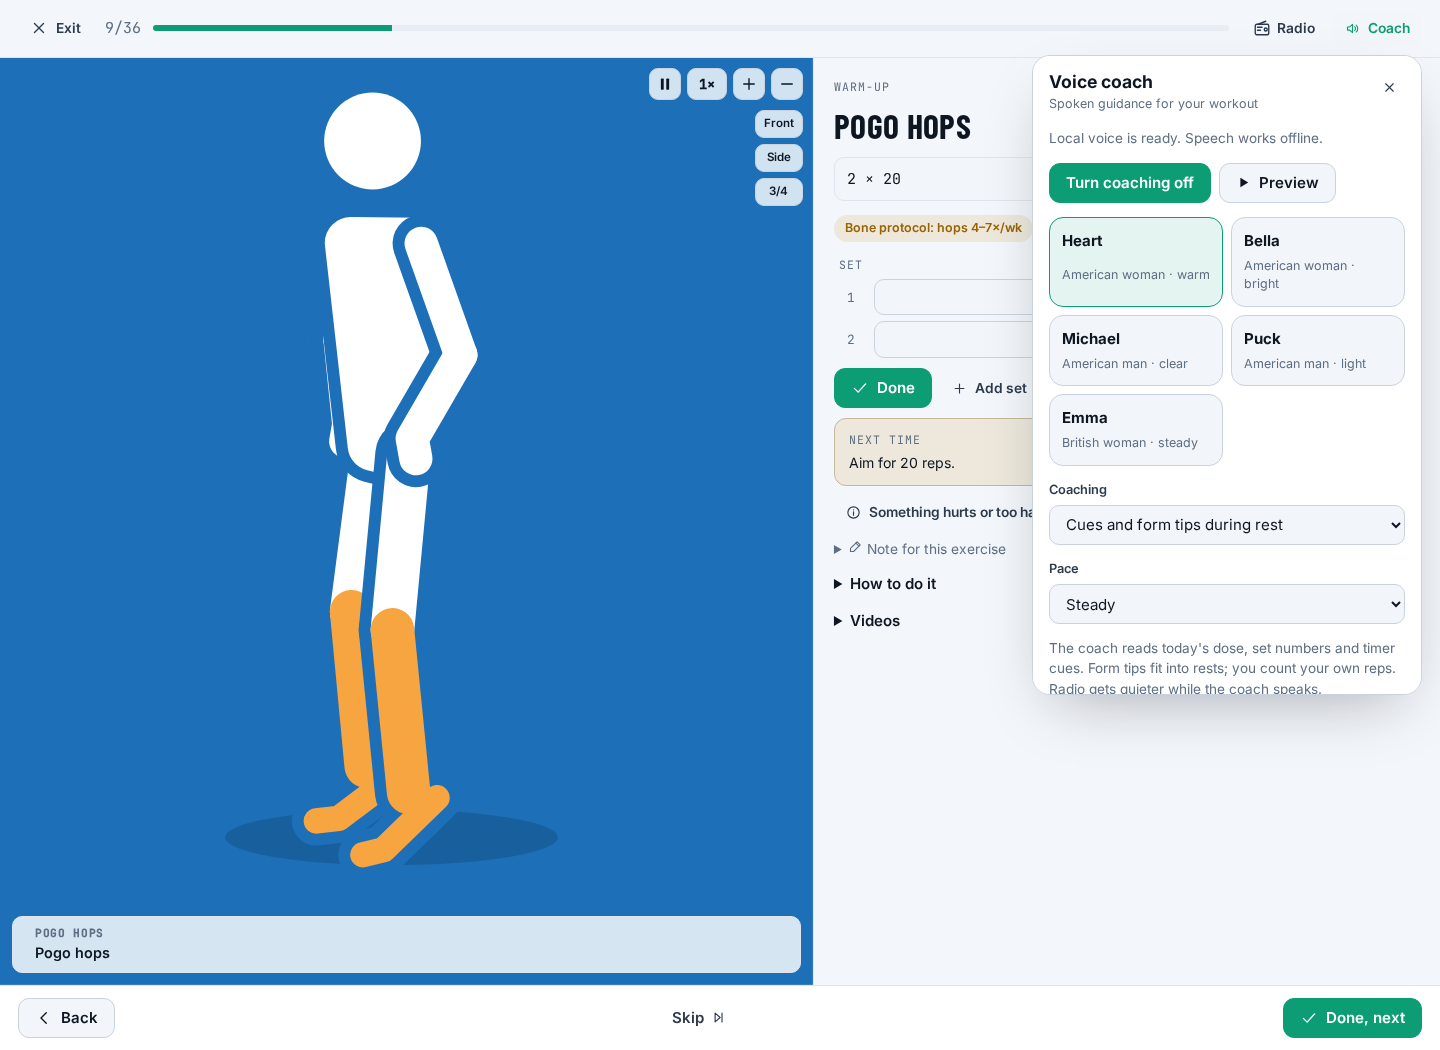
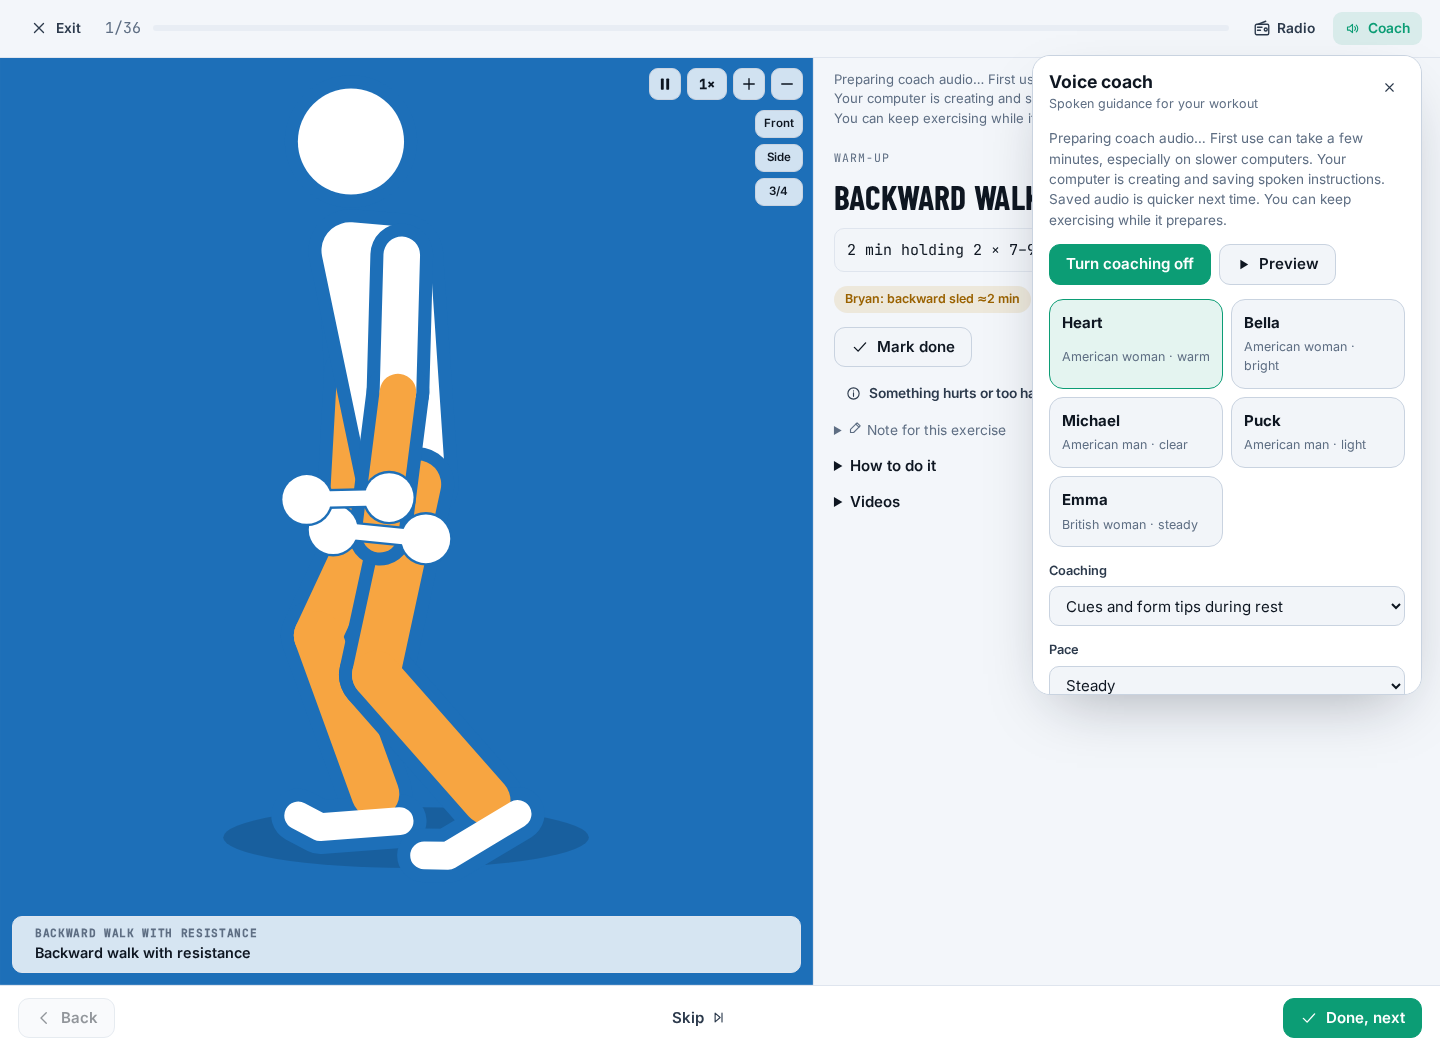
Show coach audio preparation status and explain first-use wait

diff --git a/tests/voice-session.test.js b/tests/voice-session.test.js
@@ -4,13 +4,17 @@ import { DAYS } from "../public/js/data/program.js";
 import { defaultProfile } from "../public/js/personalize.js";
 import { state } from "../public/js/store.js";
 import { createGuidedVoice } from "../public/js/voice/session.js";
-import { unlockVoice } from "../public/js/voice/player.js";
+import { unlockVoice, voiceStatus } from "../public/js/voice/player.js";
 import { prepareManifest } from "../voice/service.js";
 
 test("guided rests continue teaching, respect the remaining time and keep clock cues while typing", async (t) => {
   const originalFetch = globalThis.fetch, originalWindow = globalThis.window;
   const texts = new Map(), played = [];
   let manifest;
+  let failPreparation = false;
+  let releaseAudio, audioStarted;
+  const firstAudio = new Promise((resolve) => { releaseAudio = resolve; });
+  const loadingAudio = new Promise((resolve) => { audioStarted = resolve; });
   class Context {
     state = "running"; sampleRate = 24000; destination = {};
     resume() { return Promise.resolve(); }
@@ -25,6 +29,7 @@ test("guided rests continue teaching, respect the remaining time and keep clock 
   globalThis.fetch = async (url, options) => {
     if (url === "/api/voice/status") return { ok: true, json: async () => ({ installed: true }) };
     if (url === "/api/voice/prepare") {
+      if (failPreparation) throw new Error("Could not prepare the local voice.");
       const result = prepareManifest(JSON.parse(options.body));
       const visit = (value) => {
         if (value?.id) texts.set(value.url, value.text);
@@ -34,19 +39,30 @@ test("guided rests continue teaching, respect the remaining time and keep clock 
       visit(result); manifest ||= result;
       return { ok: true, json: async () => result };
     }
+    audioStarted();
+    await firstAudio;
     return { ok: true, arrayBuffer: async () => new TextEncoder().encode(texts.get(url)).buffer };
   };
   state.profile = { ...defaultProfile(), level: "active" };
   const all = DAYS.flatMap((d) => d.blocks.flatMap((b) => b.items.map((item) => ({ item, block: b.name, level: 2, scope: "main" }))));
   const row = all.find((s) => s.item.ex === "row");
   const next = all.find((s) => s.item.ex === "pushup");
-  const coach = createGuidedVoice("2026-10-19", [row, next], { textContent: "" });
+  const status = { textContent: "" };
+  const coach = createGuidedVoice("2026-10-19", [row, next], status);
   t.after(() => {
     coach.dispose(); state.profile = null;
     globalThis.fetch = originalFetch;
     if (originalWindow === undefined) delete globalThis.window; else globalThis.window = originalWindow;
   });
-  await unlockVoice(); await coach.enter(0);
+  await unlockVoice();
+  const entering = coach.enter(0);
+  await loadingAudio;
+  assert.equal(voiceStatus.preparing, true, "the popup stays in preparation state while speech is loading");
+  assert.match(status.textContent, /few minutes/);
+  assert.match(status.textContent, /creating and saving spoken instructions/);
+  releaseAudio(); await entering;
+  assert.equal(voiceStatus.preparing, false, "preparation ends when the opening speech is ready");
+  assert.equal(status.textContent, "");
   await new Promise((resolve) => setImmediate(resolve));
   played.length = 0;
   const context = { itemId: row.item.id, scope: "main", setIndex: 0 };
@@ -74,4 +90,9 @@ test("guided rests continue teaching, respect the remaining time and keep clock 
   event("tick", 10);
   assert.equal(played.at(-1), manifest.clock.ten.text, "typing never delays the ten-second cue");
   event("stop", 0);
+  failPreparation = true;
+  state.profile.settings.coachVoice = "am_puck";
+  await coach.enter(0);
+  assert.equal(voiceStatus.preparing, false, "an error cannot leave the popup stuck preparing");
+  assert.equal(voiceStatus.message, "Could not prepare the local voice.");
 });

diff --git a/public/js/voice/session.js b/public/js/voice/session.js
@@ -1,6 +1,6 @@
 import { state } from "../store.js";
 import { getItemLog } from "../components/logger.js";
-import { cancelTeaching, cancelVoice, clipDuration, playVoice, preloadVoice, prepareVoice, refreshVoiceStatus, videoVoice, voiceEnabled, voiceRequest, voiceStatus } from "./player.js";
+import { PREPARING_VOICE, cancelTeaching, cancelVoice, clipDuration, playVoice, preloadVoice, prepareVoice, refreshVoiceStatus, setVoicePreparing, videoVoice, voiceEnabled, voiceRequest, voiceStatus } from "./player.js";
 
 export function createGuidedVoice(date, steps, statusEl) {
   let index = 0;
@@ -32,12 +32,14 @@ export function createGuidedVoice(date, steps, statusEl) {
     const enteredAt = ++activity;
     manifest = null; nextManifest = null; rest = null;
     cancelVoice(); videoVoice(false);
-    if (!steps[index] || !voiceEnabled()) { statusEl.textContent = ""; return; }
+    if (!steps[index] || !voiceEnabled()) { statusEl.textContent = ""; setVoicePreparing(false); return; }
+    statusEl.textContent = PREPARING_VOICE;
+    setVoicePreparing(true);
     requestKey = JSON.stringify(request(steps[index]));
     try {
       if (!voiceStatus.installed) await refreshVoiceStatus();
-      if (disposed || stamp !== token || !voiceEnabled() || !voiceStatus.installed) return;
-      statusEl.textContent = "Preparing coach audio…";
+      if (disposed || stamp !== token || !voiceEnabled()) return;
+      if (!voiceStatus.installed) { statusEl.textContent = ""; setVoicePreparing(false); return; }
       const current = await getManifest(steps[index]);
       if (disposed || stamp !== token) return;
       manifest = current;
@@ -51,6 +53,7 @@ export function createGuidedVoice(date, steps, statusEl) {
       await preloadVoice(lines, valid);
       if (!valid()) return;
       statusEl.textContent = "";
+      setVoicePreparing(false);
       if (enteredAt === activity && !timerOpen) playVoice(lines).then((played) => {
         if (played && valid()) {
           heard.add(key);
@@ -64,7 +67,7 @@ export function createGuidedVoice(date, steps, statusEl) {
         const next = await getManifest(steps[index + 1]);
         if (valid()) { nextManifest = next; preloadVoice([next.next, ...next.intro, ...next.safety], valid); }
       }
-    } catch (err) { if (!disposed && stamp === token) statusEl.textContent = err.message; }
+    } catch (err) { if (!disposed && stamp === token) { statusEl.textContent = err.message; voiceStatus.message = err.message; setVoicePreparing(false); } }
   }
   return {
     enter,
@@ -73,7 +76,7 @@ export function createGuidedVoice(date, steps, statusEl) {
       if (step && requestKey && requestKey !== JSON.stringify(request(step))) enter(index);
     },
     input() { lastInput = Date.now(); cancelTeaching(); },
-    timer(value) { timerOpen = value; activity += 1; cancelVoice(); statusEl.textContent = ""; },
+    timer(value) { timerOpen = value; activity += 1; cancelVoice(); statusEl.textContent = ""; setVoicePreparing(false); },
     rest(event) {
       const step = steps[index];
       if (!step || !manifest || timerOpen || event.context?.itemId !== step.item.id || event.context.scope !== step.scope) return;
@@ -111,7 +114,7 @@ export function createGuidedVoice(date, steps, statusEl) {
         }
       }
     },
-    finish() { token += 1; cancelVoice(); rest = null; statusEl.textContent = ""; if (manifest) playVoice(manifest.clock.finish, { urgent: true }); },
-    dispose() { disposed = true; token += 1; cancelVoice(); videoVoice(false); },
+    finish() { token += 1; cancelVoice(); rest = null; statusEl.textContent = ""; setVoicePreparing(false); if (manifest) playVoice(manifest.clock.finish, { urgent: true }); },
+    dispose() { disposed = true; token += 1; cancelVoice(); videoVoice(false); setVoicePreparing(false); },
   };
 }

diff --git a/public/js/components/coach-controls.js b/public/js/components/coach-controls.js
@@ -2,7 +2,7 @@ import { state, updateProfile } from "../store.js";
 import { esc, h } from "../util.js";
 import { icon } from "./icons.js";
 import { VOICES } from "../voice/script.js";
-import { cancelVoice, installVoice, onVoice, playVoice, prepareVoice, refreshVoiceStatus, selectedVoice, setVoiceEnabled, unlockVoice, voiceEnabled, voiceStatus } from "../voice/player.js";
+import { PREPARING_VOICE, cancelVoice, installVoice, onVoice, playVoice, prepareVoice, refreshVoiceStatus, selectedVoice, setVoiceEnabled, unlockVoice, voiceEnabled, voiceStatus } from "../voice/player.js";
 
 export function createCoachControls({ popup = false, onChange = () => {} } = {}) {
   const el = h(`<div class="workout-coach${popup ? " coach-popup" : ""}">
@@ -29,12 +29,13 @@ export function createCoachControls({ popup = false, onChange = () => {} } = {})
   function sync(status) {
     if (disposed) return;
     const enabled = voiceEnabled();
-    el.querySelector(".coach-status").textContent = status.message;
+    el.querySelector(".coach-status").textContent = status.preparing ? PREPARING_VOICE : status.message;
     const button = el.querySelector('[data-coach="enable"]');
     button.textContent = enabled ? "Turn coaching off" : "Turn coaching on";
     button.setAttribute("aria-pressed", String(enabled));
     button.disabled = !status.installed || status.installing;
     toggle?.classList.toggle("is-on", enabled && status.installed);
+    toggle?.setAttribute("aria-busy", String(status.preparing));
     toggle?.setAttribute("aria-label", `Voice coach, ${enabled && status.installed ? "on" : "off"}`);
     const install = el.querySelector('[data-coach="install"]');
     install.hidden = status.installed && !status.installing && !status.error;

diff --git a/public/js/voice/player.js b/public/js/voice/player.js
@@ -12,9 +12,11 @@ let mutedByVideo = false;
 let finishSource = null;
 const buffers = new Map();
 const listeners = new Set();
-export const voiceStatus = { installed: false, installing: false, message: "Checking local voice…", blocked: false };
+export const PREPARING_VOICE = "Preparing coach audio… First use can take a few minutes, especially on slower computers. Your computer is creating and saving spoken instructions. Saved audio is quicker next time. You can keep exercising while it prepares.";
+export const voiceStatus = { installed: false, installing: false, preparing: false, message: "Checking local voice…", blocked: false };
 const notify = () => { for (const fn of listeners) fn({ ...voiceStatus, speaking }); };
 export function onVoice(fn) { listeners.add(fn); fn({ ...voiceStatus, speaking }); return () => listeners.delete(fn); }
+export function setVoicePreparing(value) { voiceStatus.preparing = value; notify(); }
 export const voiceEnabled = () => state.profile?.settings?.voiceCoach === true;
 export const selectedVoice = () => VOICES.find((v) => v.id === state.profile?.settings?.coachVoice) || VOICES[0];
 
@@ -46,7 +48,7 @@ export function cancelTeaching() { if (priority === 0) cancelVoice(); }
 export function videoVoice(value) { mutedByVideo = value; if (value) cancelVoice(); }
 export function setVoiceEnabled(value) {
   updateProfile((p) => { p.settings ||= {}; p.settings.voiceCoach = value; }, { silent: true });
-  if (!value) cancelVoice();
+  if (!value) { voiceStatus.preparing = false; cancelVoice(); }
   else { mutedByVideo = false; unlockVoice(); }
   notify();
 }

diff --git a/README.md b/README.md
@@ -231,7 +231,7 @@ Open **Radio** in the guided workout's top bar. FIP Electro is the default; choo
 
 ## Voice coach
 
-Open **Coach** beside Radio in a guided workout, or **Settings → Voice coach**. Choose **Download local voice** once, then turn coaching on. The download runs on the computer hosting the app. Your PC, tablet and phone all play the same voice without running an AI model in the browser.
+Open **Coach** beside Radio in a guided workout, or **Settings → Voice coach**. Choose **Download local voice** once, then turn coaching on. The Coach popup shows **Preparing coach audio** until the opening speech is ready. First use can take a few minutes while your computer creates and saves spoken instructions; you can keep exercising while it prepares. Saved audio is quicker next time. The download runs on the computer hosting the app. Your PC, tablet and phone all play the same voice without running an AI model in the browser.
 
 Choose Heart or Bella (American women), Michael or Puck (American men), or Emma (British woman), then press **Preview**. Your voice, pace and coaching choice are saved. **Cues and form tips** adds short instructions during rests; **Essential cues only** keeps exercise, dose, set and timer announcements. The coach uses today's level, personal weights and units, including an easier dose selected for today. You still count your own reps.
 

diff --git a/CHANGELOG.md b/CHANGELOG.md
@@ -1,5 +1,10 @@
 # Changelog
 
+## [1.32.2] - 2026-10-20
+
+### Fixed
+- The Coach popup now shows when audio is preparing, explains the first-use wait and clears the message when speech is ready.
+
 ## [1.32.1] - 2026-10-20
 
 ### Added
